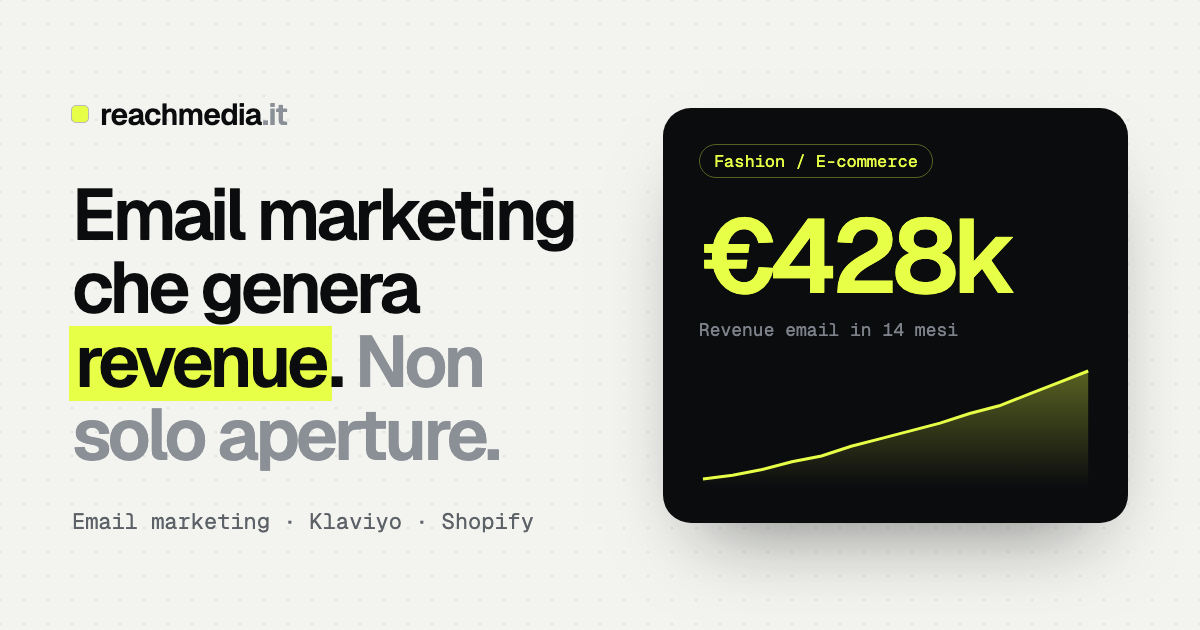
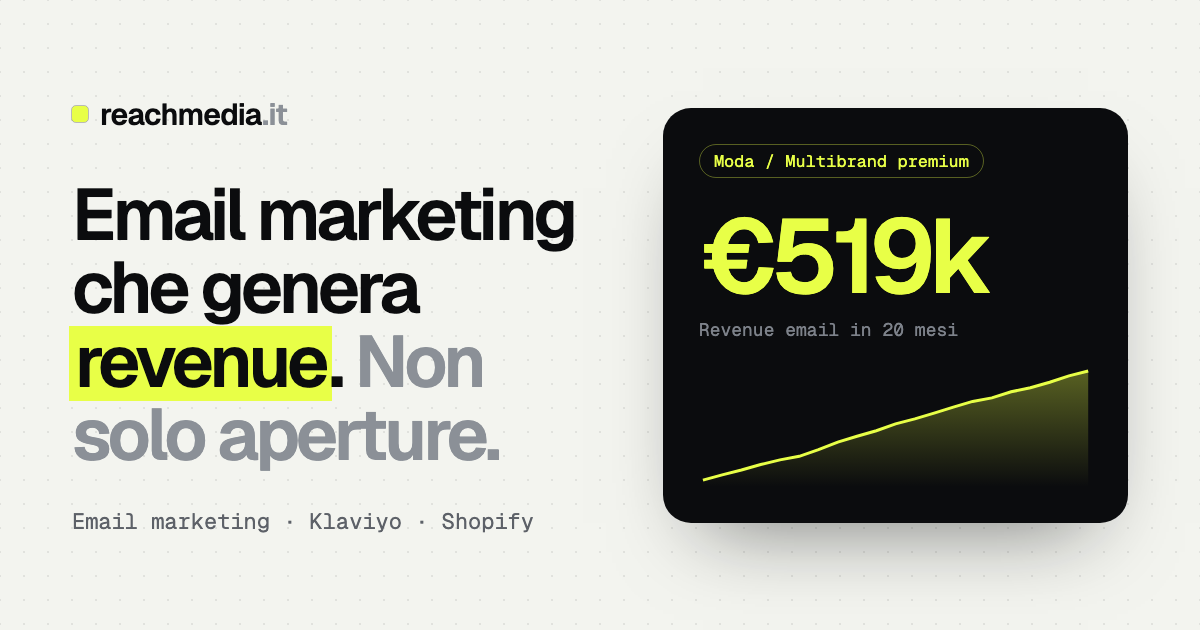
content(home): replace the featured case with real Klaviyo data
Multibrand premium fashion store (not a brand), previously sending only
occasional Shopify newsletters. Mar 2025 → Nov 2026 from Klaviyo:
€519k email-attributed revenue (81% flows), 22.4% of online revenue,
424 campaigns, 1.18M emails. Chart now plots the real cumulative series.
OG image updated to match (cache-busted to v=3).

diff --git a/app/components/home/content.ts b/app/components/home/content.ts
@@ -82,19 +82,20 @@ export const FLOW = [
 ];
 
 export const FEATURED = {
-  stat: "€428k",
-  statLabel: "Revenue attribuita email",
+  stat: "€519k",
+  statLabel: "Revenue attribuita email · 20 mesi",
   metrics: [
-    { val: "58,7%", lab: "Open rate" },
-    { val: "372", lab: "Campagne inviate" },
-    { val: "984k", lab: "Email inviate" },
+    { val: "22,4%", lab: "Del fatturato online" },
+    { val: "424", lab: "Campagne inviate" },
+    { val: "1,18M", lab: "Email inviate" },
   ],
-  sector: "Fashion / E-commerce",
-  title: "Da 0 a €428k di revenue email in 14 mesi",
-  body: "Brand di abbigliamento premium che non aveva mai investito in email marketing. Abbiamo costruito l'intera infrastruttura da zero: lista, template, automazioni e calendario editoriale. In 14 mesi il canale email è diventato il secondo per revenue dopo il paid.",
-  tags: ["Klaviyo", "Shopify", "Email strategy", "Automazioni"],
-  // Monthly email revenue (k€), month 1 → 14. Illustrative curve of the case.
-  series: [2, 4, 7, 11, 14, 19, 23, 27, 31, 36, 40, 46, 52, 58],
+  sector: "Moda / Multibrand premium",
+  title: "Da newsletter occasionali a €519k di revenue email",
+  body: "Negozio multibrand di moda premium. Prima l'email era qualche newsletter sporadica inviata da Shopify, senza strategia né automazioni. Abbiamo portato tutto su Klaviyo: lista, segmentazione, template, flow e calendario editoriale. Oggi l'email genera in media il 22% del fatturato online, e l'81% di quella revenue arriva dalle automazioni.",
+  tags: ["Klaviyo", "Shopify", "Flow", "Segmentazione"],
+  // Cumulative email-attributed revenue (k€) per month, Mar 2025 → Nov 2026.
+  // Source: Klaviyo, Placed Order attributed to email (flows + campaigns).
+  series: [13.5, 37.7, 60.1, 85.5, 107.0, 123.8, 154.3, 189.5, 216.3, 242.2, 273.7, 296.9, 323.6, 351.5, 377.7, 394.1, 422.5, 441.1, 466.6, 496.0, 518.7],
 };
 
 export const MINIS = [

diff --git a/app/blog/[slug]/page.tsx b/app/blog/[slug]/page.tsx
@@ -67,9 +67,9 @@ export async function generateMetadata({ params }: Props): Promise<Metadata> {
         type: "article",
         publishedTime: sanityPost.publishedAt,
         authors: ["Reach Media"],
-        images: [{ url: "/og-image.png?v=2", width: 1200, height: 630, alt: title }],
+        images: [{ url: "/og-image.png?v=3", width: 1200, height: 630, alt: title }],
       },
-      twitter: { card: "summary_large_image", title, description, images: ["/og-image.png?v=2"] },
+      twitter: { card: "summary_large_image", title, description, images: ["/og-image.png?v=3"] },
     };
   }
 
@@ -87,13 +87,13 @@ export async function generateMetadata({ params }: Props): Promise<Metadata> {
       type: "article",
       publishedTime: staticPost.date,
       authors: ["Reach Media"],
-      images: [{ url: "/og-image.png?v=2", width: 1200, height: 630, alt: staticPost.seo.ogTitle }],
+      images: [{ url: "/og-image.png?v=3", width: 1200, height: 630, alt: staticPost.seo.ogTitle }],
     },
     twitter: {
       card: "summary_large_image",
       title: staticPost.seo.ogTitle,
       description: staticPost.seo.ogDescription,
-      images: ["/og-image.png?v=2"],
+      images: ["/og-image.png?v=3"],
     },
   };
 }
@@ -173,7 +173,7 @@ export default async function ArticlePage({ params }: Props) {
     "url": `https://reachmedia.it/blog/${slug}`,
     "author": { "@type": "Person", "name": "Ardit Ndoja" },
     "publisher": { "@type": "Organization", "name": "Reach Media", "url": "https://reachmedia.it" },
-    "image": "https://reachmedia.it/og-image.png?v=2",
+    "image": "https://reachmedia.it/og-image.png?v=3",
   };
 
   return (

diff --git a/app/layout.tsx b/app/layout.tsx
@@ -59,7 +59,7 @@ export const metadata: Metadata = {
     siteName: "Reach Media",
     images: [
       {
-        url: "/og-image.png?v=2",
+        url: "/og-image.png?v=3",
         width: 1200,
         height: 630,
         alt: "Reach Media – Email Marketing che Genera Revenue",
@@ -71,7 +71,7 @@ export const metadata: Metadata = {
     title: "Reach Media | Email Marketing che Genera Revenue",
     description:
       "Fai il quiz gratuito di 2 minuti e scopri dove stai perdendo soldi con l'email marketing. Strategia Klaviyo e automazioni per e-commerce premium italiani.",
-    images: ["/og-image.png?v=2"],
+    images: ["/og-image.png?v=3"],
   },
   robots: {
     index: true,
